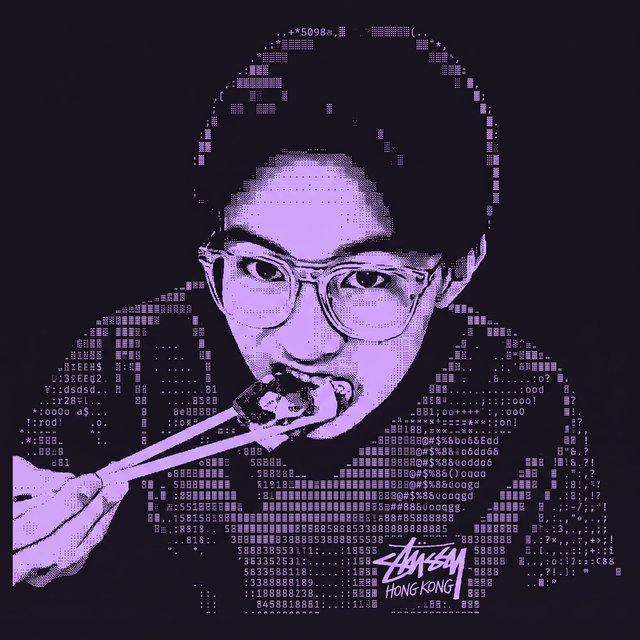
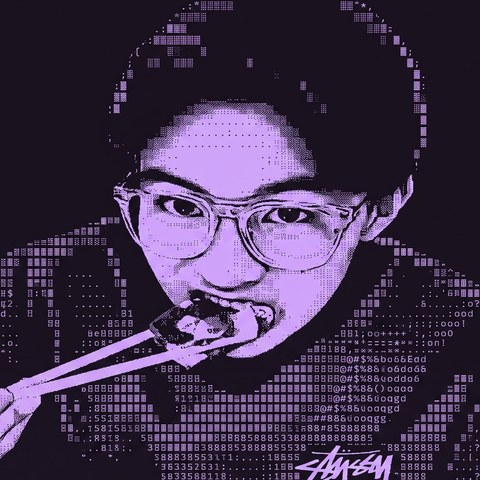
Tighter portrait crop, fix image sizing and vertical alignment

diff --git a/README.md b/README.md
@@ -1,11 +1,11 @@
 <table>
 <tr>
-<td valign="top" width="200">
+<td valign="middle" width="200" align="center">
 
-<img src="assets/avatar-ascii.jpg" width="190" alt="Randy Ren" />
+<img src="assets/avatar-ascii.jpg" width="180" height="180" alt="Randy Ren" />
 
 </td>
-<td valign="top">
+<td valign="middle">
 
 **Randy Ren** — [github.com/randyren278](https://github.com/randyren278)
 
